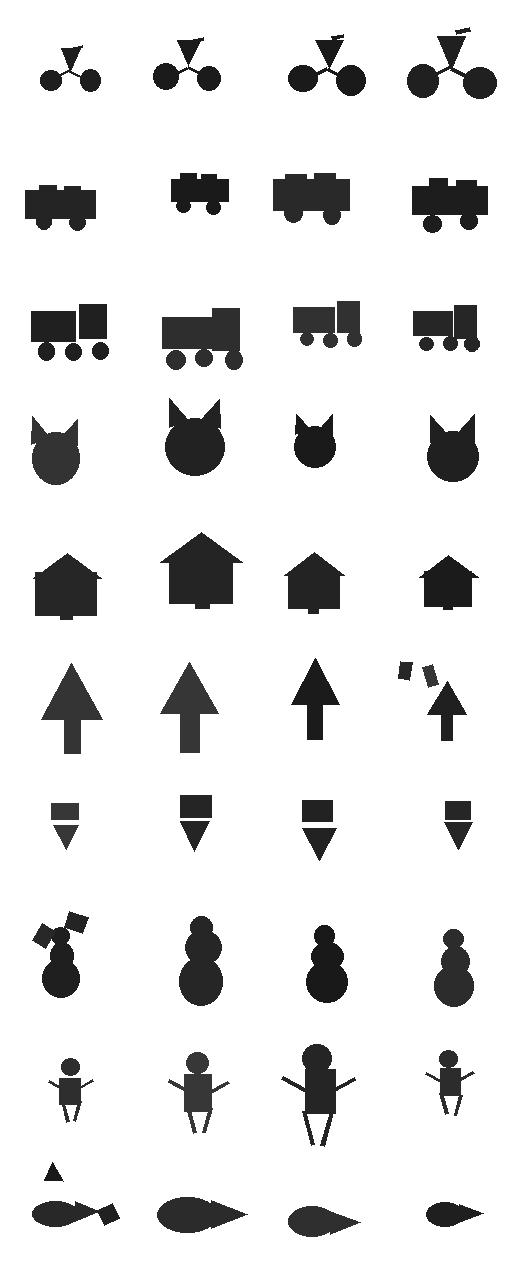
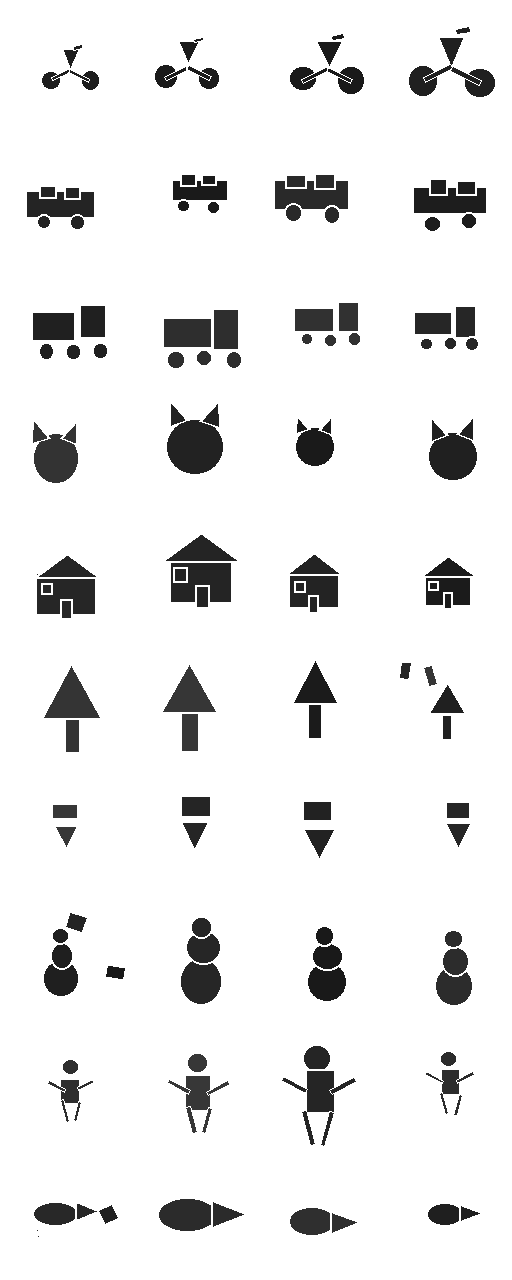
Add primitive outlines so contained/overlapping parts are recoverable
Every primitive in an object shares one flat fill color, so a part
fully contained in another (a car's window inside its body, a
house's door) left zero pixel evidence -- rendering it invisible to
any pixel-based extractor even though it exists in ground truth.

- primitives.py: stroke every shape with a white outline on top of
  its fill, width capped adaptively so it can't swallow thin lines
  (a fixed-width outline on a ~2px-thick line left only background
  pixels, since the outline color equals the background).
- synth_dataset.py: draw template parts in template (container-first)
  order instead of a full random shuffle, so a container isn't drawn
  over its own contained detail; only distractors get randomized
  front/behind placement.
- objects.py: slightly thicken "line" parts (0.03-0.035 -> 0.05) for
  more robust rendering at typical object sizes.
- test_synth_dataset.py: the ground-truth-vs-pixel check now looks in
  a small neighborhood around each primitive's center instead of one
  rounded pixel, since a thin rotated primitive's exact center can
  land on its outline stroke by a sub-pixel margin.

Claude-Session: https://claude.ai/code/session_014YLrf11s9WA91uB9pucNg3

diff --git a/src/shapeprim/data/primitives.py b/src/shapeprim/data/primitives.py
@@ -19,6 +19,15 @@ PRIMITIVE_TYPES = ("circle", "triangle", "rectangle", "line")
 
 Color = Tuple[int, int, int]
 
+# Every primitive is stroked with this outline on top of its fill. Without
+# it, a part fully contained in another same-colored part (e.g. a car's
+# window inside its body) would leave no pixel evidence at all -- the fill
+# is identical to what's underneath, so there is no edge for a classical
+# contour-based extractor to find. The outline is a fixed rendering
+# convention, not semantic data, so it isn't a dataclass field.
+OUTLINE_COLOR: Color = (255, 255, 255)
+OUTLINE_WIDTH = 2
+
 
 @dataclass
 class Primitive:
@@ -68,7 +77,17 @@ class Primitive:
             return None
         return [_rotate_translate(x, y, self.cx, self.cy, self.rotation) for x, y in local]
 
+    def _outline_width(self) -> int:
+        # A fixed-width outline drawn on a thin shape (e.g. a 2px-thick line)
+        # can fully overwrite the fill, leaving no fill pixel at all -- and
+        # since the outline is white, the shape would vanish into the white
+        # background. Cap the outline so at least ~half the thinnest
+        # dimension stays fill-colored.
+        thinnest = min(self.width, self.height)
+        return max(1, min(OUTLINE_WIDTH, int(thinnest // 4)))
+
     def draw(self, draw: ImageDraw.ImageDraw) -> None:
+        outline_width = self._outline_width()
         if self.type == "circle":
             bbox = (
                 self.cx - self.width / 2,
@@ -76,9 +95,9 @@ class Primitive:
                 self.cx + self.width / 2,
                 self.cy + self.height / 2,
             )
-            draw.ellipse(bbox, fill=self.color)
+            draw.ellipse(bbox, fill=self.color, outline=OUTLINE_COLOR, width=outline_width)
         else:
-            draw.polygon(self.polygon(), fill=self.color)
+            draw.polygon(self.polygon(), fill=self.color, outline=OUTLINE_COLOR, width=outline_width)
 
     def to_dict(self) -> dict:
         return {

diff --git a/src/shapeprim/data/objects.py b/src/shapeprim/data/objects.py
@@ -53,9 +53,9 @@ CLASS_TEMPLATES: dict[str, ClassTemplate] = {
             PrimitiveSpec("triangle", 0.5, 0.45, 0.3, 0.32, rotation=PI, name="frame"),
             # Chainstay + fork: lines from the bottom-bracket apex down to each
             # wheel hub -- the feature that reads as "bike" rather than "triangle + circles".
-            PrimitiveSpec("line", 0.36, 0.68, 0.313, 0.03, rotation=2.678, name="chainstay"),
-            PrimitiveSpec("line", 0.64, 0.68, 0.313, 0.03, rotation=0.464, name="fork"),
-            PrimitiveSpec("line", 0.62, 0.26, 0.14, 0.035, rotation=-0.2, name="handlebar"),
+            PrimitiveSpec("line", 0.36, 0.68, 0.313, 0.05, rotation=2.678, name="chainstay"),
+            PrimitiveSpec("line", 0.64, 0.68, 0.313, 0.05, rotation=0.464, name="fork"),
+            PrimitiveSpec("line", 0.62, 0.26, 0.14, 0.05, rotation=-0.2, name="handlebar"),
         ],
     ),
     "car": ClassTemplate(
@@ -122,10 +122,10 @@ CLASS_TEMPLATES: dict[str, ClassTemplate] = {
         [
             PrimitiveSpec("circle", 0.5, 0.18, 0.26, 0.26, name="head"),
             PrimitiveSpec("rectangle", 0.5, 0.52, 0.3, 0.4, name="body"),
-            PrimitiveSpec("line", 0.28, 0.45, 0.28, 0.035, rotation=0.5, name="arm_left"),
-            PrimitiveSpec("line", 0.72, 0.45, 0.28, 0.035, rotation=-0.5, name="arm_right"),
-            PrimitiveSpec("line", 0.4, 0.85, 0.32, 0.035, rotation=1.3, name="leg_left"),
-            PrimitiveSpec("line", 0.6, 0.85, 0.32, 0.035, rotation=1.84, name="leg_right"),
+            PrimitiveSpec("line", 0.28, 0.45, 0.28, 0.05, rotation=0.5, name="arm_left"),
+            PrimitiveSpec("line", 0.72, 0.45, 0.28, 0.05, rotation=-0.5, name="arm_right"),
+            PrimitiveSpec("line", 0.4, 0.85, 0.32, 0.05, rotation=1.3, name="leg_left"),
+            PrimitiveSpec("line", 0.6, 0.85, 0.32, 0.05, rotation=1.84, name="leg_right"),
         ],
     ),
     "fish": ClassTemplate(

diff --git a/tests/test_synth_dataset.py b/tests/test_synth_dataset.py
@@ -26,17 +26,28 @@ def test_render_sample_background_corner_is_background_color():
 
 @pytest.mark.parametrize("class_name", CLASS_NAMES)
 def test_ground_truth_primitives_match_rendered_pixels(class_name):
-    """Every non-distractor primitive's center pixel must carry its fill color:
-    this is the core check that the JSON ground truth matches the image."""
+    """Every primitive's fill color must appear near its own center: the
+    core check that the JSON ground truth matches the image. A small
+    neighborhood (not the single rounded-center pixel) is checked because a
+    thin rotated primitive's exact geometric center can rasterize onto its
+    outline stroke by a fraction of a pixel."""
     cfg = GenerationConfig(image_size=128, distractor_prob=0.0)
+    radius = 2
     for trial in range(5):
         sample = render_sample(class_name, random.Random(trial), cfg)
         for p in sample.primitives:
-            x, y = int(round(p.cx)), int(round(p.cy))
-            x = min(max(x, 0), cfg.image_size - 1)
-            y = min(max(y, 0), cfg.image_size - 1)
-            pixel = sample.image.getpixel((x, y))
-            assert pixel == tuple(p.color), (class_name, p.type, x, y)
+            cx, cy = int(round(p.cx)), int(round(p.cy))
+            found = False
+            for dy in range(-radius, radius + 1):
+                for dx in range(-radius, radius + 1):
+                    x = min(max(cx + dx, 0), cfg.image_size - 1)
+                    y = min(max(cy + dy, 0), cfg.image_size - 1)
+                    if sample.image.getpixel((x, y)) == tuple(p.color):
+                        found = True
+                        break
+                if found:
+                    break
+            assert found, (class_name, p.type, cx, cy)
 
 
 def test_num_primitives_matches_template_when_no_distractors():

diff --git a/src/shapeprim/data/synth_dataset.py b/src/shapeprim/data/synth_dataset.py
@@ -119,20 +119,26 @@ def render_sample(
             )
         )
 
+    # Template parts must draw in template order (container before contained
+    # detail, e.g. a car body before its windows) so a part fully inside
+    # another isn't erased. Only distractors -- which never contain or are
+    # contained by the object -- get a random front/behind placement.
+    behind: List[Primitive] = []
+    front: List[Primitive] = []
     if cfg.distractor_prob > 0 and rng.random() < cfg.distractor_prob:
         n_distractors = rng.randint(1, max(1, cfg.max_distractors))
         for _ in range(n_distractors):
-            primitives.append(_random_distractor(size, rng, cfg))
+            d = _random_distractor(size, rng, cfg)
+            (front if rng.random() < 0.5 else behind).append(d)
 
-    order = list(range(len(primitives)))
-    rng.shuffle(order)
+    draw_order = behind + primitives + front
 
     image = Image.new("RGB", (size, size), cfg.background)
     draw = ImageDraw.Draw(image)
-    for i in order:
-        primitives[i].draw(draw)
+    for p in draw_order:
+        p.draw(draw)
 
-    return Sample(image=image, primitives=primitives, label=class_name)
+    return Sample(image=image, primitives=draw_order, label=class_name)
 
 
 def _random_distractor(size: int, rng: random.Random, cfg: GenerationConfig) -> Primitive:
